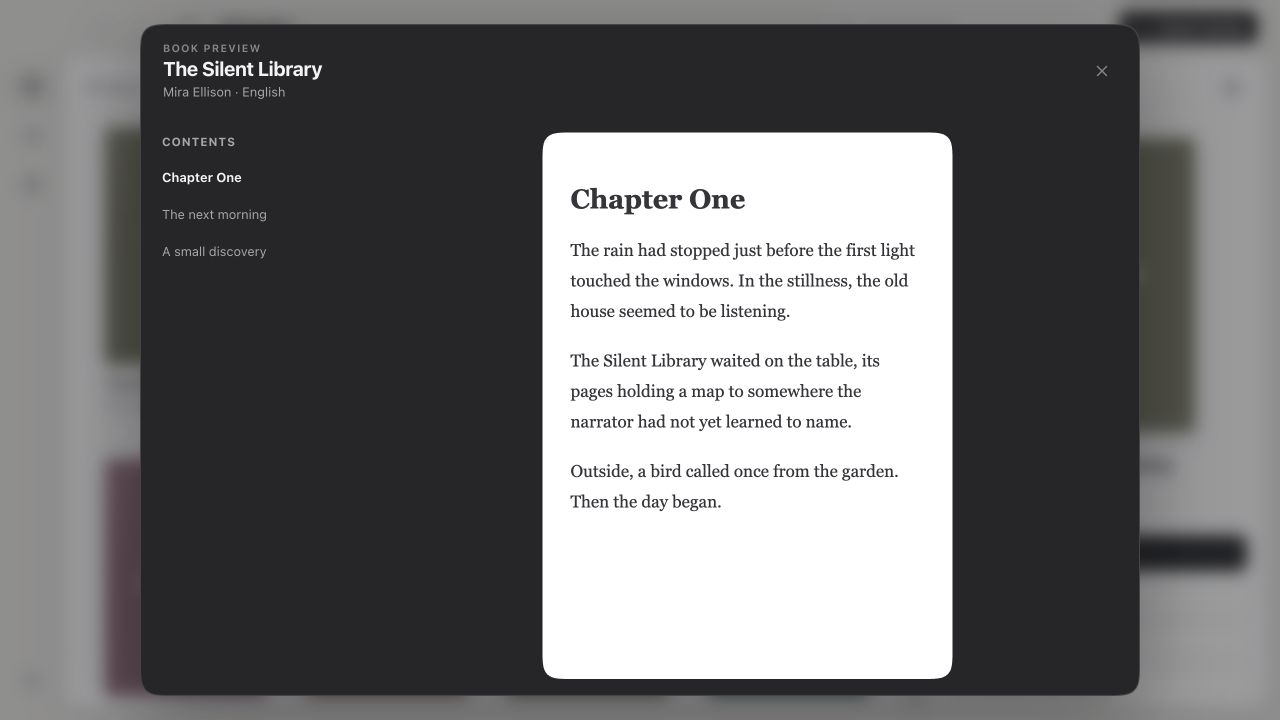
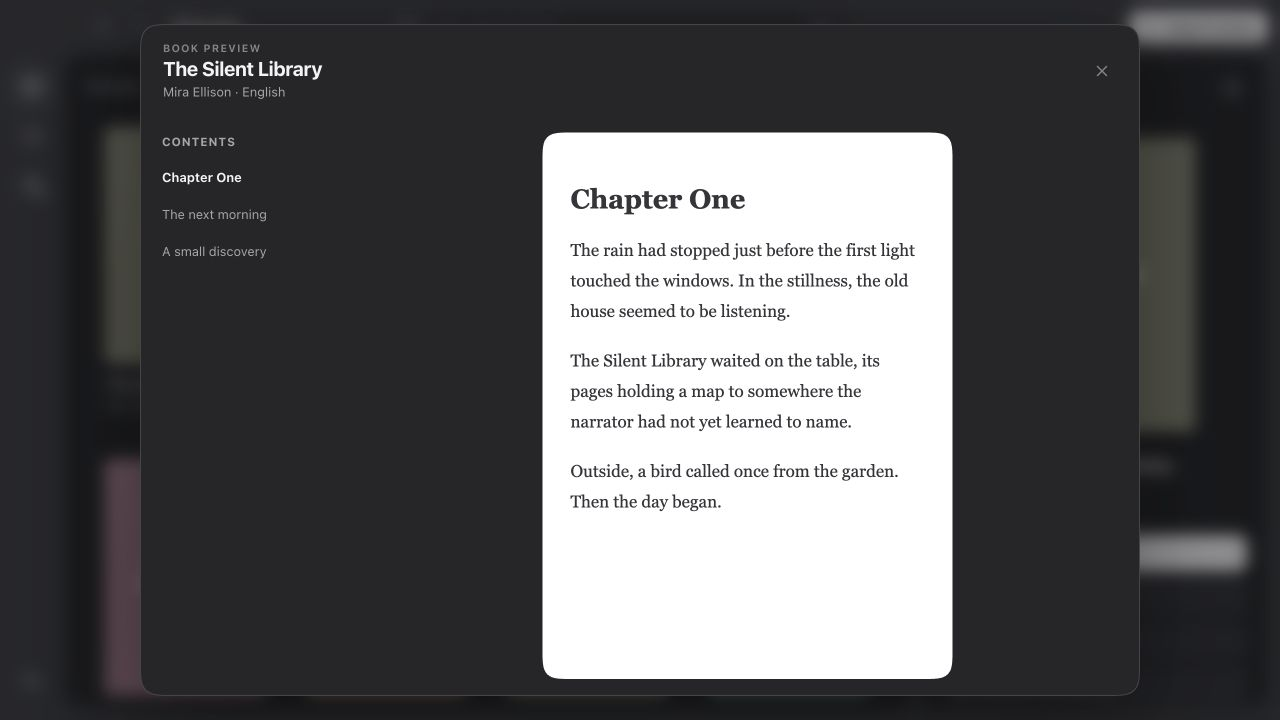
Center search and activity in the toolbar (#4)

Changed region(s): [[0.0, 0.0, 1.0, 1.0]]

diff --git a/frontend/src/App.tsx b/frontend/src/App.tsx
@@ -479,14 +479,18 @@ export default function App() {
     </aside>
 
     <header className="topbar" data-drop-target={isDevice ? 'device' : 'library'}>
-      <div className="topbar-navigation" aria-label="Navigation history">
-        <button className="history-button" aria-label="Back" title="Back" disabled={navigation.index === 0} onClick={() => setNavigation(current => ({ ...current, index: Math.max(0, current.index - 1) }))}><ArrowLeft size={17}/></button>
-        <button className="history-button" aria-label="Forward" title="Forward" disabled={navigation.index >= navigation.pages.length - 1} onClick={() => setNavigation(current => ({ ...current, index: Math.min(current.pages.length - 1, current.index + 1) }))}><ArrowRight size={17}/></button>
+      <div className="topbar-leading">
+        <div className="topbar-navigation" aria-label="Navigation history">
+          <button className="history-button" aria-label="Back" title="Back" disabled={navigation.index === 0} onClick={() => setNavigation(current => ({ ...current, index: Math.max(0, current.index - 1) }))}><ArrowLeft size={17}/></button>
+          <button className="history-button" aria-label="Forward" title="Forward" disabled={navigation.index >= navigation.pages.length - 1} onClick={() => setNavigation(current => ({ ...current, index: Math.min(current.pages.length - 1, current.index + 1) }))}><ArrowRight size={17}/></button>
+        </div>
+        <h1 className="global-page-title">{page === 'library' ? 'All books' : page === 'recent' ? 'Recently added' : page === 'device' ? 'Reader' : page === 'settings' ? 'Settings' : 'Updates'}</h1>
       </div>
-      <ActivityCenter entries={entries} onCancelTransfer={() => void run(() => bridge.cancelTransfer())}/>
-      <h1 className="global-page-title">{page === 'library' ? 'All books' : page === 'recent' ? 'Recently added' : page === 'device' ? 'Reader' : page === 'settings' ? 'Settings' : 'Updates'}</h1>
-      <div className="top-actions">
+      <div className="topbar-center">
+        <ActivityCenter entries={entries} onCancelTransfer={() => void run(() => bridge.cancelTransfer())}/>
         {page !== 'settings' && page !== 'updates' && <label className="search-box"><Search size={17}/><input ref={searchRef} placeholder="Search books" aria-label="Search books" value={query} onChange={e => setQuery(e.target.value)}/><kbd>{/Mac|iPhone|iPad/.test(navigator.platform) ? '⌘ F' : 'Ctrl+F'}</kbd>{query && <button className="clear-search" onClick={() => setQuery('')} aria-label="Clear search"><X size={14}/></button>}</label>}
+      </div>
+      <div className="top-actions">
         {page === 'device' && device && <button className="toolbar-button" title="Refresh Kindle contents" onClick={() => deviceRefreshRef.current()}><RefreshCw size={16}/><span>Refresh</span></button>}
         {page !== 'settings' && page !== 'updates' && <button className="toolbar-button primary-button" onClick={() => void beginImport()} disabled={busy || transferActive}><Plus size={17}/><span>Import books</span></button>}
       </div>

diff --git a/frontend/src/styles.css b/frontend/src/styles.css
@@ -51,6 +51,16 @@ html:has(.app-shell.preview-mode),html:has(.app-shell.preview-mode) body,.app-sh
 .history-button:disabled{opacity:.38;cursor:default}
 .topbar .toolbar-button{height:32px}
 .search-box input:focus,.search-box input:focus-visible{outline:none;box-shadow:none}
+.topbar{grid-column:1/-1;margin-right:-12px;padding:0 12px;display:grid;grid-template-columns:minmax(0,1fr) auto minmax(0,1fr);gap:12px}
+.topbar-leading{min-width:0;padding:0 40px 0 76px;display:flex;align-items:center;gap:14px}
+.topbar-leading .global-page-title{overflow:hidden;text-overflow:ellipsis}
+.topbar-center{position:relative;display:flex;align-items:center;justify-content:center;min-width:0}
+.topbar-center .search-box{width:clamp(180px,34vw,420px)}
+.topbar-center .activity-center{position:absolute;right:calc(100% + 8px);top:50%;transform:translateY(-50%)}
+.topbar-center,.topbar-center *{--wails-draggable:no-drag}
+.topbar .top-actions{min-width:0;margin-left:0;justify-content:flex-end}
+@media(max-width:900px){.topbar{gap:7px}.topbar-leading{gap:8px}.topbar .top-actions{gap:5px}.topbar .search-box{width:clamp(130px,19vw,190px)}}
+@media(max-width:760px){.topbar .top-actions .toolbar-button{width:34px;padding:0}.topbar .top-actions .toolbar-button span{display:none}}
 
 .updates-card>div span{max-width:100%;white-space:normal;line-height:1.5}
 
